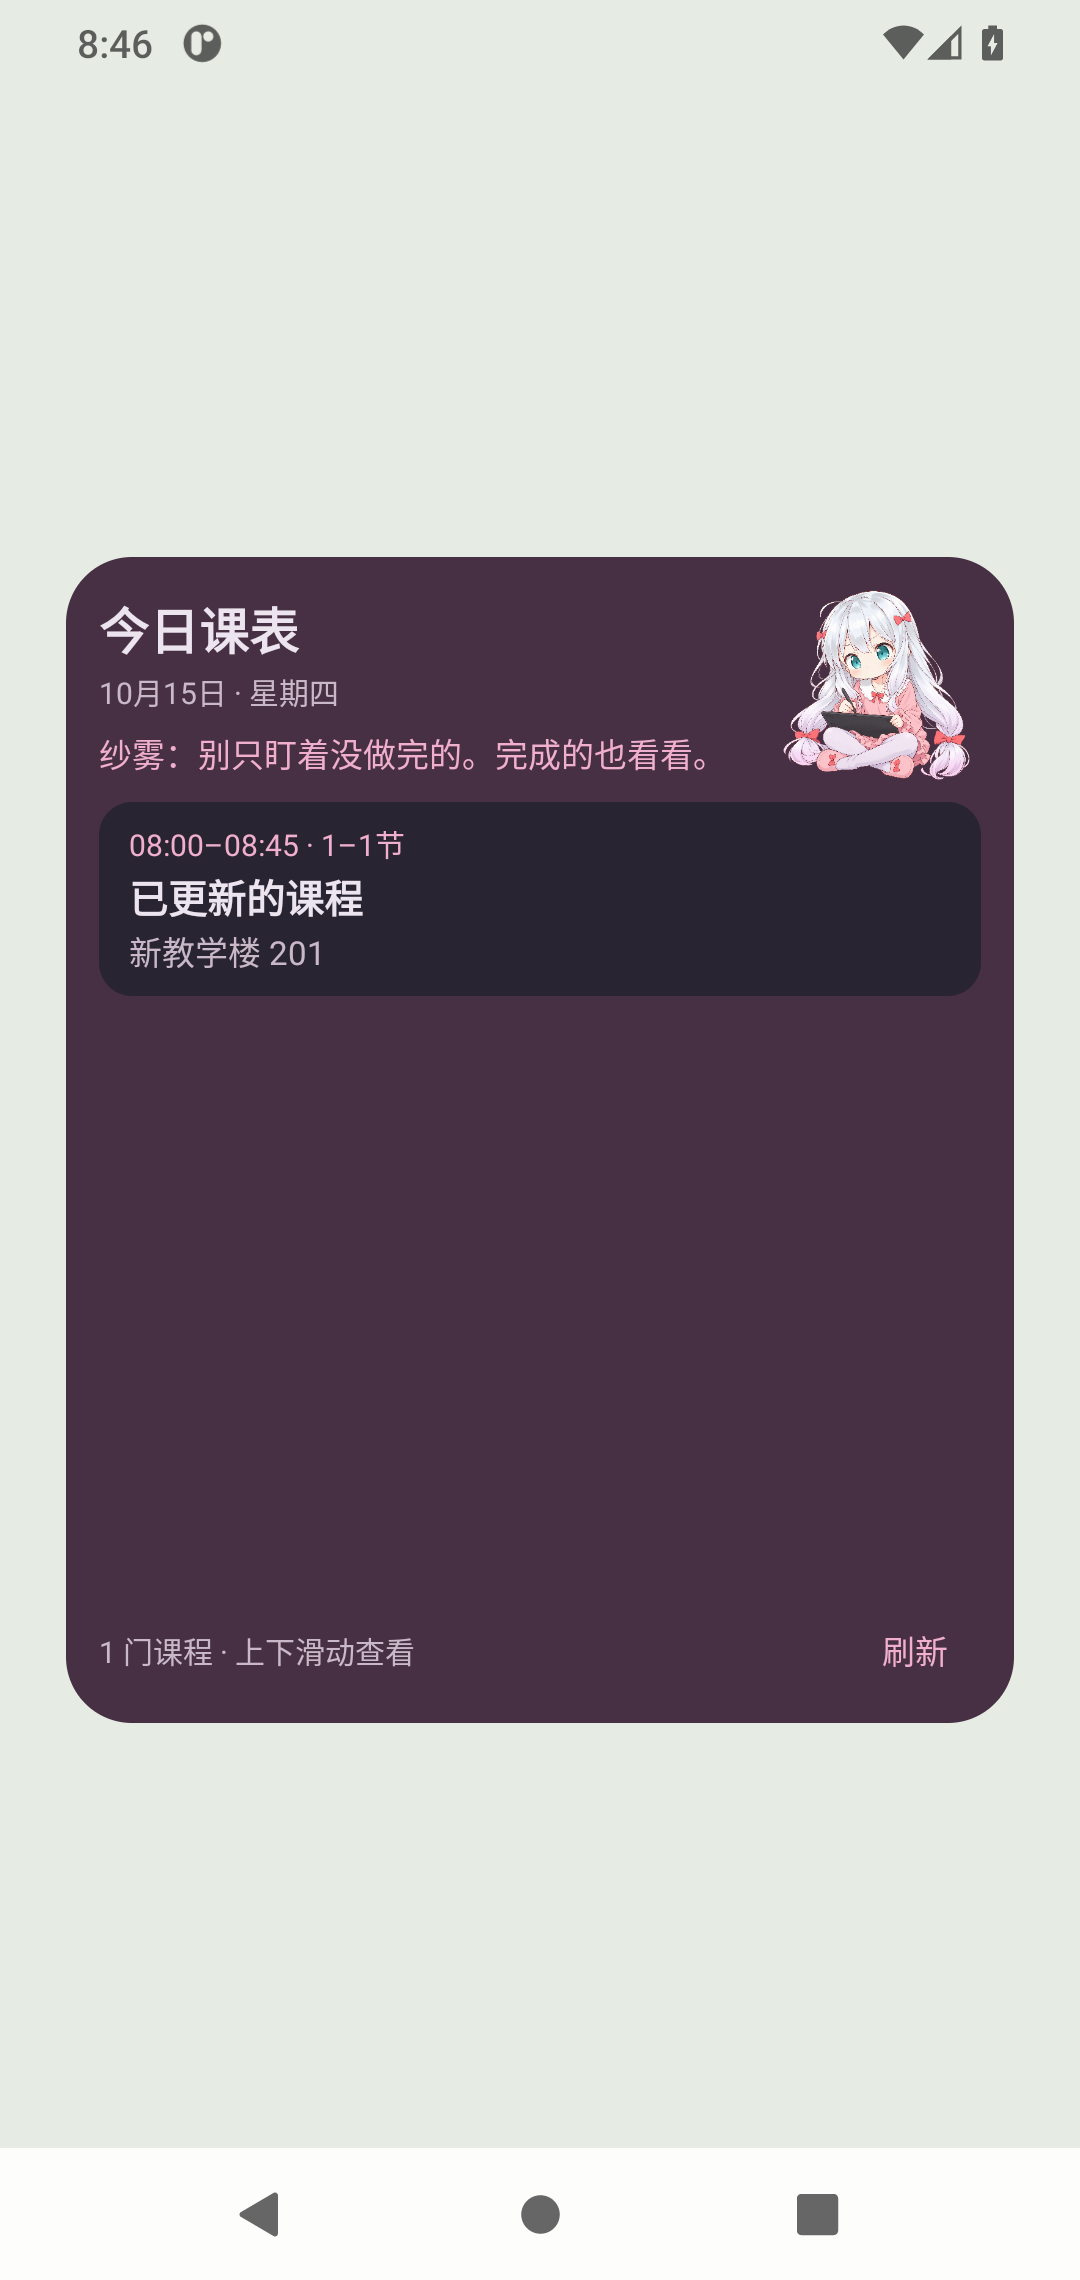
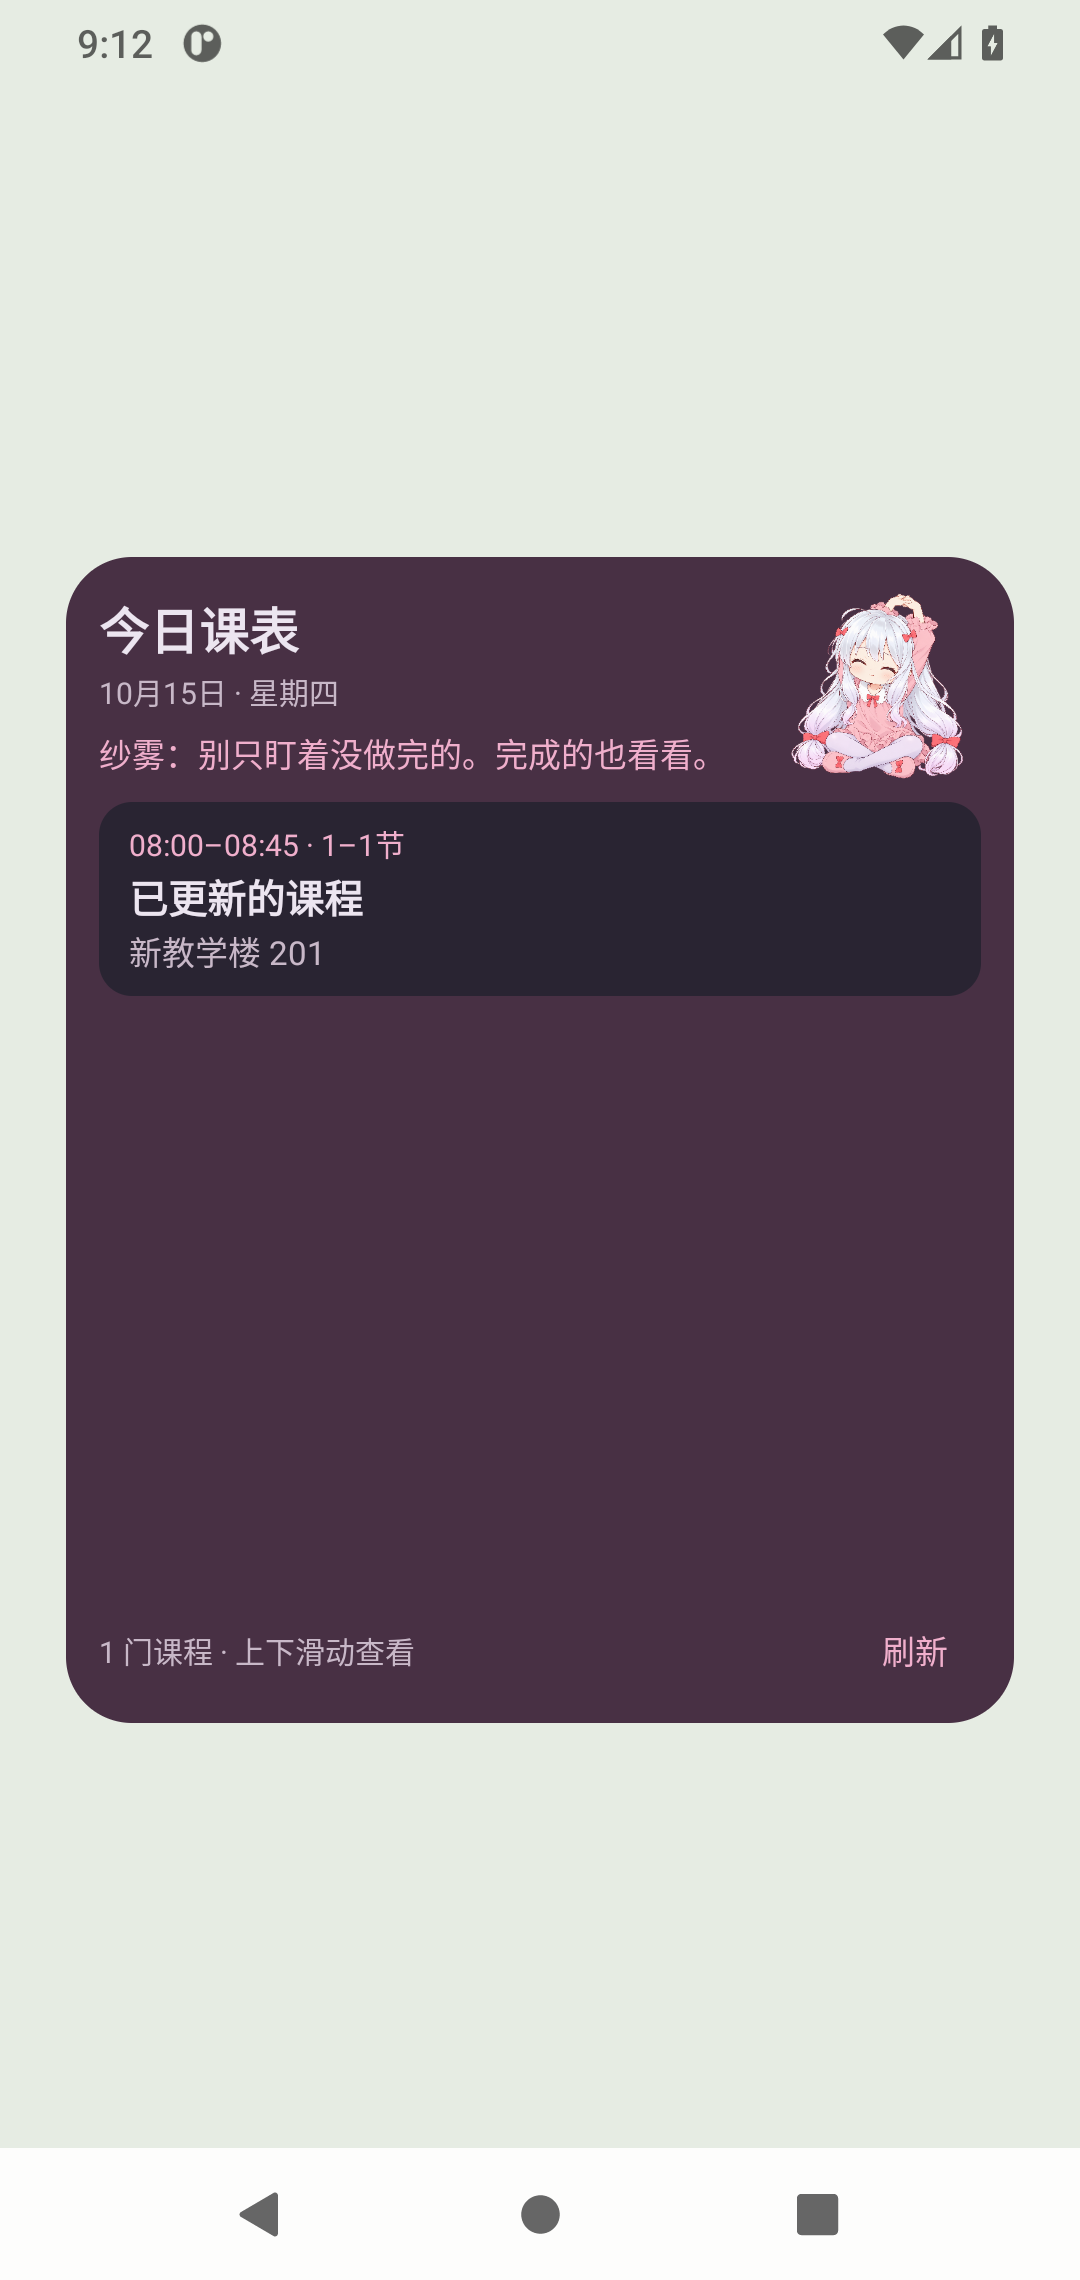
扩充六幅纱雾分时插画，发布1.6.1

Changed region(s): [[0.7333, 0.2491, 0.9167, 0.3425], [0.0917, 0.0, 0.1528, 0.0311]]

diff --git a/app/src/main/java/com/shike/timetable/ui/SettingsScreen.kt b/app/src/main/java/com/shike/timetable/ui/SettingsScreen.kt
@@ -86,7 +86,7 @@ import java.time.LocalDate
         Column(Modifier.fillMaxWidth().padding(vertical = 30.dp), horizontalAlignment = Alignment.CenterHorizontally) {
             Row(verticalAlignment = Alignment.CenterVertically) {
                 if (companion != null) ThemeFlower(Modifier.size(18.dp))
-                Text("拾课  1.6.0", color = MaterialTheme.colorScheme.onSurfaceVariant, fontSize = 12.sp, fontWeight = FontWeight.Medium, modifier = Modifier.padding(start = 7.dp))
+                Text("拾课  1.6.1", color = MaterialTheme.colorScheme.onSurfaceVariant, fontSize = 12.sp, fontWeight = FontWeight.Medium, modifier = Modifier.padding(start = 7.dp))
             }
             Text("本机保存 · 无广告", color = MaterialTheme.colorScheme.onSurfaceVariant.copy(alpha = .8f), fontSize = 10.sp, modifier = Modifier.padding(top = 5.dp))
         }

diff --git a/README.md b/README.md
@@ -2,7 +2,7 @@
 
 简洁的原生 Android 课程表，课程在本机保存，日常查看无需联网。使用 Kotlin 与 Jetpack Compose，支持 Android 8.0 及以上。
 
-当前版本为 1.6.0。本机安装包位于 `dist/拾课-1.6.0-debug.apk`，源码压缩包位于 `dist/拾课-1.6.0-源码.zip`；`dist/` 不纳入 Git，拉取仓库后可以自行构建安装包。
+当前版本为 1.6.1。本机安装包位于 `dist/拾课-1.6.1-debug.apk`，源码压缩包位于 `dist/拾课-1.6.1-源码.zip`；`dist/` 不纳入 Git，拉取仓库后可以自行构建安装包。
 
 ## 继续开发
 
@@ -17,7 +17,7 @@ cd shike-timetable
 
 主题入口为 `app/src/main/assets/themes/catalog.json`，每个主题有独立的 `theme.json` 和图片目录。立绘、分时语录、画册与配色从配置读取，方便增删内容；开发步骤和可复制模板见 [主题与角色素材维护](docs/主题与角色素材维护.md)。
 
-新增「纱雾主题」：雾白、樱粉与冰蓝的独立浅深配色，六幅分时段适配图和 [126 条原创陪伴语](docs/和泉纱雾陪伴语.md)。图片与增量维护说明见 [纱雾主题与素材](docs/纱雾主题与素材.md)。
+「纱雾主题」包含雾白、樱粉与冰蓝的独立浅深配色、十二幅分时段适配图和 [126 条原创陪伴语](docs/和泉纱雾陪伴语.md)。1.6.1 新增温杯、伸懒腰与小哈欠各一组常规立绘及 Q 版，图片与增量维护说明见 [纱雾主题与素材](docs/纱雾主题与素材.md)。
 
 ![阳茉莉主题周课表](screenshots/阳茉莉-课表-浅色.png)
 
@@ -30,10 +30,10 @@ cd shike-timetable
 - 排课规则：1–12 节、1–30 周、单双周；准确检测实际教学周内的课程冲突。
 - 学期设置：开学周一、学期周数、每日作息、周末显示。
 - 外观：可在设置中切换「阳茉莉主题」「纱雾主题」和「简约主题」，应用和小组件共用整体主题；另支持浅色、深色和跟随系统。真白素材留待后续补充。
-- 角色陪伴：阳茉莉有十六幅形象与 120 条原创陪伴语；纱雾有三幅常规立绘、三幅 Q 版与 126 条原创陪伴语。图片和台词按早、午、晚切换，支持关闭展示；纱雾小组件优先使用 Q 版。
+- 角色陪伴：阳茉莉有十六幅形象与 120 条原创陪伴语；纱雾有六幅常规立绘、六幅 Q 版与 126 条原创陪伴语。图片和台词按早、午、晚切换，支持关闭展示；纱雾小组件优先使用 Q 版。
 - 点击互动：点击角色或语录区，只从实际早晨、午间或夜晚的对应池中换一句和一幅图，优先避开最近五句；切换页面、重建界面和普通小组件刷新保留选择，到下一半小时恢复自动轮换。换句提示在首次点击后永久隐藏，应用与小组件共用该状态。
 - 桌面小组件：今日课程、教室、上课时间；课程多时上下滑动，可铺满横向并调节高度，点击课程打开详情，保存课表后自动刷新。
-- 角色画册：按当前主题展示全部插画，阳茉莉十六幅、纱雾六幅；后续增减素材仅需维护主题配置。
+- 角色画册：按当前主题展示全部插画，阳茉莉十六幅、纱雾十二幅；后续增减素材仅需维护主题配置。
 - 数据：本机保存，通过系统文件选择器导入与导出 JSON 备份。
 - 教务导入：电子科技大学官网内登录、读取课表、预览确认；也支持课表 HTML 文件和受支持的树维课表 JSON。
 
@@ -111,7 +111,7 @@ Android 应用需要在自己的网页登录；电脑 Edge 登录状态不会搬
 
 ## 验证
 
-1.6.0 已通过 78 项 JVM 单元测试，以及独立 Android 11 / API 30 模拟器上的 10 项主题与小组件测试；另检查纱雾主题在 130% 字号下的显示。覆盖三套主题切换、素材解码、小组件紧凑图、按时段换句、首次提示持久化及课程数据不变。
+1.6.1 素材扩充通过 78 项 JVM 单元测试，以及独立 Android 11 / API 30 模拟器上的纱雾外观和真实小组件两项完整流程。逐项解码与打开十二幅插画，验证主题选择持久化、按时段换句及课程数据不变。1.6.0 的十项主题回归和 130% 字号验证记录仍保留。
 
 课程 CRUD、脱敏课表逐周逐节比对、导入预览与确认、WebView 提取和电脑版布局等历史验证记录保留在验证文档中；本次素材更新没有重复访问学校的真实登录会话。
 

diff --git a/docs/纱雾主题与素材.md b/docs/纱雾主题与素材.md
@@ -17,7 +17,7 @@
 
 配色应用于首页、周课表、课程色块、编辑、设置、画册、导入入口及小组件。小组件使用卡片起点色作为底色。课程仍保留原来的六个颜色编号，只按主题对应到新颜色。
 
-## 六幅适配图
+## 十二幅适配图
 
 均使用内置 imagegen，参考用户图片生成独立透明底二创；没有改动用户原图。常规立绘保留半身构图，Q 版强调完整的小轮廓，以适合窄卡片和桌面。最终素材保存在项目目录，不依赖本机图片集路径。
 
@@ -26,12 +26,15 @@
 | 早晨 | `sagiri_morning_portrait.png` | `sagiri_morning_chibi.png` | 抱速写本、轻轻招手 |
 | 午间 | `sagiri_noon_portrait.png` | `sagiri_noon_chibi.png` | 数位板与画笔、专注画画 |
 | 夜晚 | `sagiri_evening_portrait.png` | `sagiri_evening_chibi.png` | 抱枕、合上的书、安静休息 |
+| 早晨（1.6.1） | `sagiri_morning_cup_portrait.png` | `sagiri_morning_cup_chibi.png` | 捧着温杯、歪头微笑 |
+| 午间（1.6.1） | `sagiri_noon_stretch_portrait.png` | `sagiri_noon_stretch_chibi.png` | 举手伸懒腰、闭眼放松 |
+| 夜晚（1.6.1） | `sagiri_evening_yawn_portrait.png` | `sagiri_evening_yawn_chibi.png` | 小哈欠与蓝色星星抱偶 |
 
-每时段两幅图进入应用轮换池，画册显示全部六幅。常规立绘的 `compactFile` 指向同一时段 Q 版，小组件因此优先显示 Q 版；语录和用户手选状态仍与应用共享。旧主题不填写 `compactFile` 时继续使用原图片。
+1.6.1 增加六幅，合计十二幅；每时段四幅图进入应用轮换池，包含两幅常规立绘与两幅 Q 版，画册显示全部十二幅。常规立绘的 `compactFile` 指向相应 Q 版，小组件每时段有两种 Q 版形象可显示；语录和用户手选状态仍与应用共享。旧主题不填写 `compactFile` 时继续使用原图片。
 
 配置与图片：`app/src/main/assets/themes/sagiri/theme.json`、同目录 `artwork/`。完整生成提示记录见 [纱雾素材生成记录](纱雾素材生成记录.json)。
 
-参考图来自用户图片集中的 `1B56C164D8E295F0B5CF1E5E6C44E195.jpg`，其余三图一并查看，用于理解角色形象，没有将整套原始图片复制进安装包。原图画师与发布出处未提供，不将其当作自有素材或官方授权素材。角色与原作版权属于原权利人，画册保留角色、原作与 AI 重绘说明。
+最初参考图来自用户图片集中的 `1B56C164D8E295F0B5CF1E5E6C44E195.jpg`，其余三图一并查看，用于理解角色形象；1.6.1 以已接入的常规立绘与 Q 版作为画风及角色参考，生成不同动作的新图。没有将整套原始图片复制进安装包。原图画师与发布出处未提供，不将其当作自有素材或官方授权素材。角色与原作版权属于原权利人，画册保留角色、原作与 AI 重绘说明。
 
 ## 126 条陪伴语
 

diff --git a/验证记录.md b/验证记录.md
@@ -2,6 +2,16 @@
 
 最近验证日期：2026 年 10 月 15 日。早期业务与教务结构验证始于 10 月 8 日。
 
+## 1.6.1 纱雾素材扩充
+
+在 1.6.0 的六幅图之外，新增温杯、伸懒腰、小哈欠三组常规立绘与 Q 版，共六幅新图，主题合计十二幅。每时段的应用图池为四幅，小组件紧凑版为两种 Q 版。主题内容 `version` 升至 2，应用为 1.6.1 / versionCode 9。原有六幅图片经 Git 内容逐字节比对保持一致，配色及 126 条台词完整保留。
+
+十二幅 PNG 均经视觉检查与透明通道复核，最大 alpha 为 255、最小为 0；伸展 Q 版重新生成后才纳入成品。生成使用内置 imagegen，六条最终提示、参考素材和版本记录已追加至 `docs/纱雾素材生成记录.json`，不把未采用的光晕版本放进安装包。
+
+78 项 JVM 测试通过，0 失败；Android Lint 0 错误、7 项既有警告。独立 ShikeDesign / Android 11 / API 30 上执行 `SagiriAppearanceTest` 和 `TodayWidgetTest` 两项完整流程：逐一解码十二幅图与紧凑素材、在画册中依次选择全部条目、换主题与重建、当前时段换句和提示保持隐藏，以及真实小组件的滚动、尺寸、课程更新与三时段 Q 版显示，均通过。使用虚构课表，不访问个人教务登录。
+
+本机交付为 `dist/拾课-1.6.1-debug.apk`、`dist/拾课-1.6.1-源码.zip` 及 SHA-256 清单；APK 沿用调试签名，可覆盖 1.6.0。素材、配色与增量维护入口仍为 `app/src/main/assets/themes/sagiri/theme.json`。
+
 ## 1.6.0 纱雾主题验证
 
 | 验证项目 | 结果 |

diff --git a/docs/主题与角色素材维护.md b/docs/主题与角色素材维护.md
@@ -1,6 +1,6 @@
 # 主题与角色素材维护
 
-适用版本：拾课 1.6.0。当前提供「阳茉莉主题」「纱雾主题」和无角色的「简约主题」。真白的角色素材留待以后补充。
+适用版本：拾课 1.6.1。当前提供「阳茉莉主题」「纱雾主题」和无角色的「简约主题」。真白的角色素材留待以后补充。
 
 ## 应用中使用
 
@@ -22,7 +22,7 @@ app/src/main/assets/themes/
     theme.json               # 无角色，只有配色
   sagiri/
     theme.json
-    artwork/                 # 三幅常规立绘与三幅 Q 版
+    artwork/                 # 六幅常规立绘与六幅 Q 版
 ```
 
 `catalog.json` 的 `themes` 数组列出可用主题 id，`defaultTheme` 指定初始主题。目录名与主题配置的 `id` 必须相同。删除主题时从列表移除即可；如果它是默认主题，同时修改 `defaultTheme`。已经保存的主题 id 不在列表时，应用和小组件回退到默认主题。
